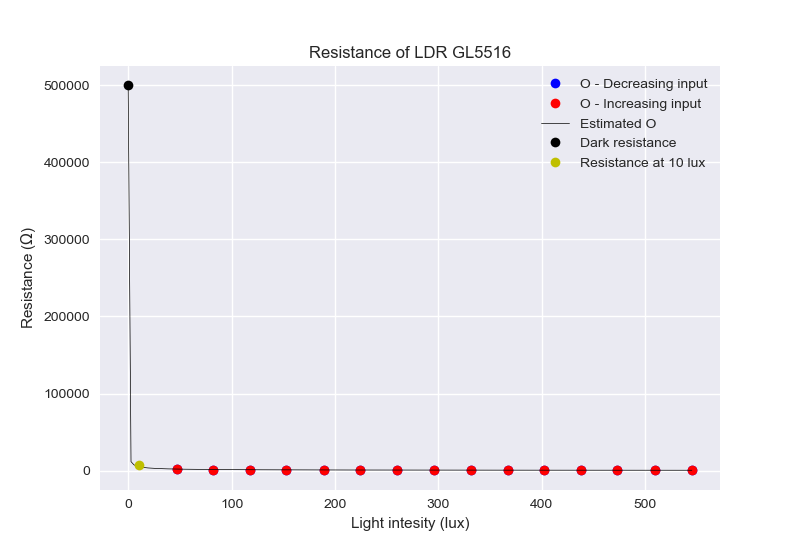
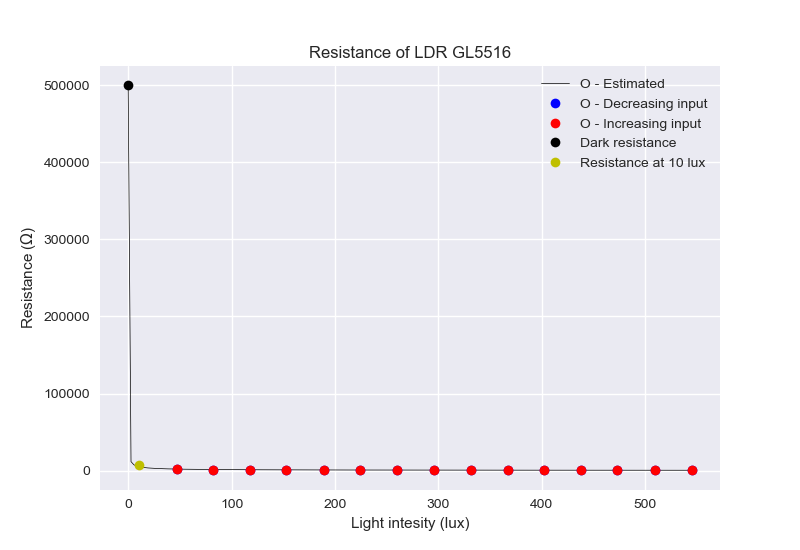
Add files via upload

Changed region(s): [[0.6875, 0.1236, 0.875, 0.2473]]

diff --git a/data_process.py b/data_process.py
@@ -22,9 +22,11 @@ PATH_DATA_CALIBRATION = "data/calibration.csv"
 
 PATH_FIG_IDEAL_LINE = "figures/ideal_straight_line.png"
 PATH_FIG_TRANSFER_CURVE = "figures/transfer_curve.png"
+PATH_FIG_TRANSFER_CURVE_LIMITED = "figures/transfer_curve_limited.png"
 PATH_FIG_NONLINEARITY = "figures/nonlinearity.png"
 PATH_FIG_HYSTERESIS = "figures/hysteresis.png"
-PATH_FIG_IO_LOG_SCALE = "figures/io_log_scale.png"
+PATH_FIG_LOG_IO = "figures/log_io.png"
+PATH_FIG_LOG_IO_LINE = "figures/log_io_line.png"
 PATH_FIG_DISTRIBUTION = "figures/distribution.png"
 
 LABEL_ILLUMINATION = "Light intesity (lux)"
@@ -134,29 +136,34 @@ if __name__ == "__main__":
     # ------------------------------------------------------------------------
     # Phuong trinh vao ra (transfer equation)
     
-    # Quan sat du lieu:
-    plt.plot(I, O2, label="O - Decreasing input",
-             marker='o', linestyle='none', color='b')
-    plt.plot(I, O1, label="O - Increasing input",
-             marker='o', linestyle='none', color='r')
-    plt.legend()
-    plt.title("Resistance of LDR GL5516 in logarithmic scale")
-    plt.xlabel(LABEL_ILLUMINATION)
-    plt.ylabel(LABEL_RESISTANCE)
-    
-    # ... duoc ve trong khong gian log:
-    plt.yscale('log')
-    plt.xscale('log')
-    
-    # Luu do thi:
-    plt.savefig(PATH_FIG_IO_LOG_SCALE)
-    
     # Moi quan he vao-ra tro nen (tuong doi) tuyen tinh sau khi duoc chuyen
     # ve khong gian logarit (theo ly thuyet co the o bat ky co so nao).
     # Chuyen so lieu dau vao va dau ra sang khong gian log (co so e):
     I_log = np.log(I)
     O1_log = np.log(O1)
     O2_log = np.log(O2)
+    
+    # Ve do thi:
+    plt.plot(I_log, O2_log, label="O - Decreasing input",
+             marker='o', linestyle='none', color='b')
+    plt.plot(I_log, O1_log, label="O - Increasing input",
+             marker='o', linestyle='none', color='r')
+    plt.legend()
+    plt.title("log(O) vs. log(I)")
+    plt.xlabel("log(I)")
+    plt.ylabel("log(O)")
+    
+    # Luu do thi:
+    plt.savefig(PATH_FIG_LOG_IO)
+    
+    plt.plot([I_log[0], I_log[-1]],
+             [O1_log[0], O1_log[-1]],
+             label="O - Expected",
+             linewidth=0.5, color='k')
+    plt.legend()
+    plt.savefig(PATH_FIG_LOG_IO_LINE)
+    
+    plt.cla()
     
     # Phuong trinh quan he vao-ra:
     #     log(O) = m*log(I) + b
@@ -179,23 +186,30 @@ if __name__ == "__main__":
     f = lambda I: 1/(1/R_co + 1/(c*I**m))
     
     # Ve do thi:
-    plt.yscale('linear')
-    plt.xscale('linear')
     x = np.linspace(0, I.max(), 200)
-    plt.plot(x, f(x), label="Estimated O",
+    plt.plot(x, f(x), label="O - Estimated",
              linewidth=0.5, color='k')
-    
+
     # Gia tri dien tro theo datasheet:
+    plt.plot(I, O2, label="O - Decreasing input",
+             marker='o', linestyle='none', color='b')
+    plt.plot(I, O1, label="O - Increasing input",
+             marker='o', linestyle='none', color='r')
+    
     plt.plot(0, R_co, label="Dark resistance",
              marker='o', linestyle='none', color='k')
     plt.plot(10, 7.5e+3, label="Resistance at 10 lux",
              marker='o', linestyle='none', color='y')
     plt.legend()
     plt.title("Resistance of LDR GL5516")
+    plt.xlabel(LABEL_ILLUMINATION)
+    plt.ylabel(LABEL_RESISTANCE)
     # plt.yscale('log')
     
     # Luu do thi:
     plt.savefig(PATH_FIG_TRANSFER_CURVE)
+    plt.ylim(0, 10000)
+    plt.savefig(PATH_FIG_TRANSFER_CURVE_LIMITED)
     plt.cla()
     
     # ------------------------------------------------------------------------
